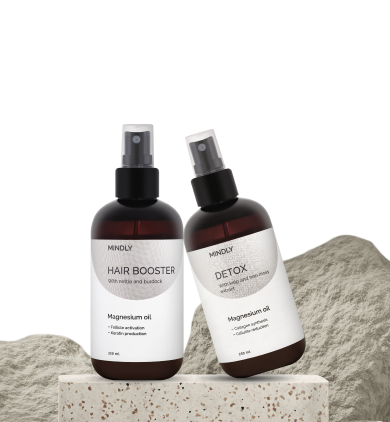
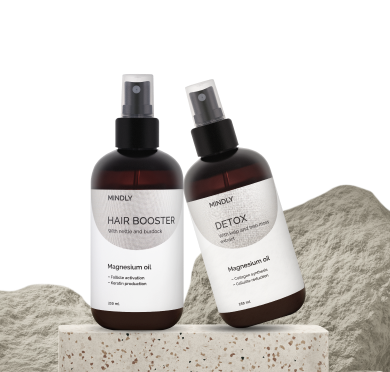
test-resp

Changed region(s): [[0.0, 0.1774, 1.0, 1.0], [0.4923, 0.9462, 0.5231, 1.0]]

diff --git a/index.html b/index.html
@@ -153,7 +153,7 @@
         </div>
       </section>
       <section id="hair-booster">
-        <div class="hair-product item--wrapper docSlider-scroll" id="hair-booster-wrap" >
+        <div class="hair-product item--wrapper" id="hair-booster-wrap" >
           <div class="container">
             <div class="hair-product--title title__wrapper">
               <span>Для волос:</span>
@@ -173,7 +173,7 @@
                       <p>HAIR BOOSTER</p>
                       <img src="img/chevron.svg" alt="Шеврон" />
                     </div>
-                    <div class="accordeon__content docSlider-scroll">
+                    <div class="accordeon__content">
                       <p class="accordeon__content-text">
                         Магниевое масло с ирландским мхом и биологически
                         активной серой МСМ заботится о волосах, усиливая их
@@ -188,7 +188,7 @@
                       <p>Как действует</p>
                       <img src="img/chevron.svg" alt="Шеврон" />
                     </div>
-                    <div class="accordeon__content docSlider-scroll">
+                    <div class="accordeon__content">
                       <div class="accordeon__works">
                         <div class="accordeon__works-item">
                           <img
@@ -257,7 +257,7 @@
                       <p>Способ применения</p>
                       <img src="img/chevron.svg" alt="Шеврон" />
                     </div>
-                    <div class="accordeon__content docSlider-scroll">
+                    <div class="accordeon__content">
                       <p class="accordeon__content-text">
                         Используйте для массажа головы. Перед применением
                         встряхните, нанесите спрей на виски и кожу головы
@@ -279,7 +279,7 @@
                       <p>Состав</p>
                       <img src="img/chevron.svg" alt="Шеврон" />
                     </div>
-                    <div class="accordeon__content docSlider-scroll">
+                    <div class="accordeon__content">
                       <p class="accordeon__content-text">
                         Magnesium chloride brine, Aqua, Chondrus Crispus
                         Digitata Extract, Burdock Extract, Nettle extract,

diff --git a/css/styles.css b/css/styles.css
@@ -363,6 +363,9 @@
   }
 }
 @media (max-width: 724px) {
+  .body {
+    position: relative;
+  }
   .body::before {
     position: absolute;
     content: "";
@@ -533,7 +536,7 @@
     align-items: center;
   }
   .hair-product--img {
-    max-height: 30vh;
+    max-height: 20vh;
     width: auto;
     margin-top: 1rem;
   }
@@ -541,11 +544,6 @@
     width: 100%;
   }
 }
-.item--wrapper {
-  display: flex;
-  align-items: flex-start;
-}
-
 @media (max-width: 724px) {
   .item--wrapper {
     flex-direction: column-reverse;

diff --git a/scss/hair-product.scss b/scss/hair-product.scss
@@ -30,7 +30,7 @@
     }
 
     &--img {
-      max-height: calc(100vh - 70vh);
+      max-height: calc(100vh - 80vh);
       width: auto;
       margin-top: 1rem;
     }
@@ -40,10 +40,10 @@
     }
   }
 }
-.item--wrapper {
-  display: flex;
-  align-items: flex-start;
-}
+// .item--wrapper {
+//   display: flex;
+//   align-items: flex-start;
+// }
 
 @media (max-width: 724px) {
   .item--wrapper {

diff --git a/scss/body.scss b/scss/body.scss
@@ -58,6 +58,7 @@
 
 @media (max-width: 724px) {
   .body {
+    position: relative;
     &::before {
       position: absolute;
       content: "";
